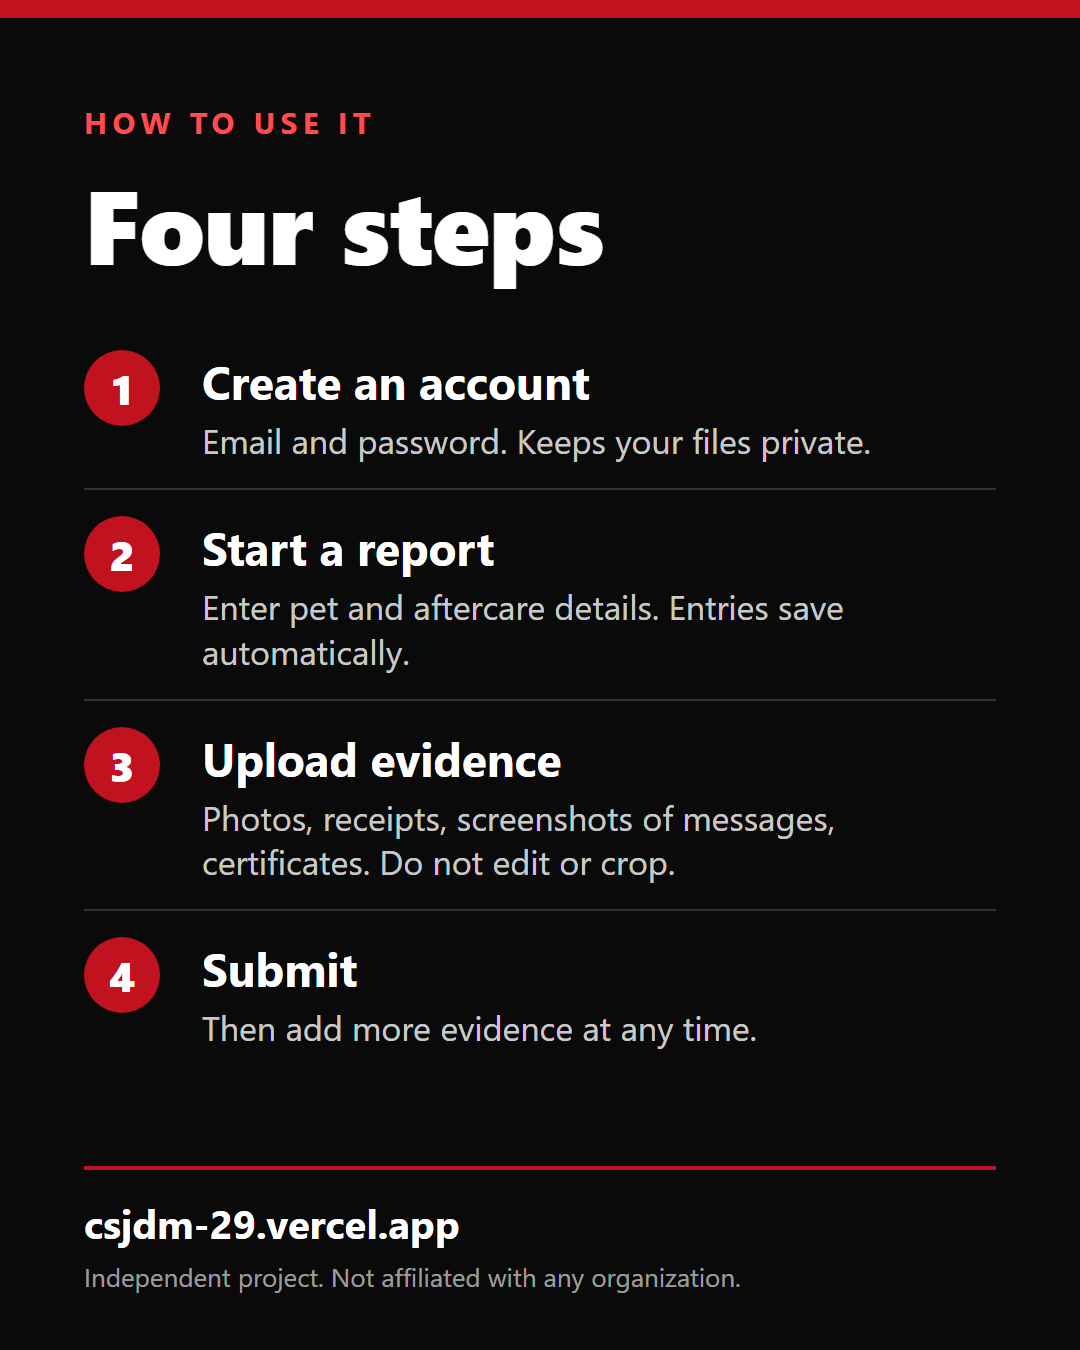
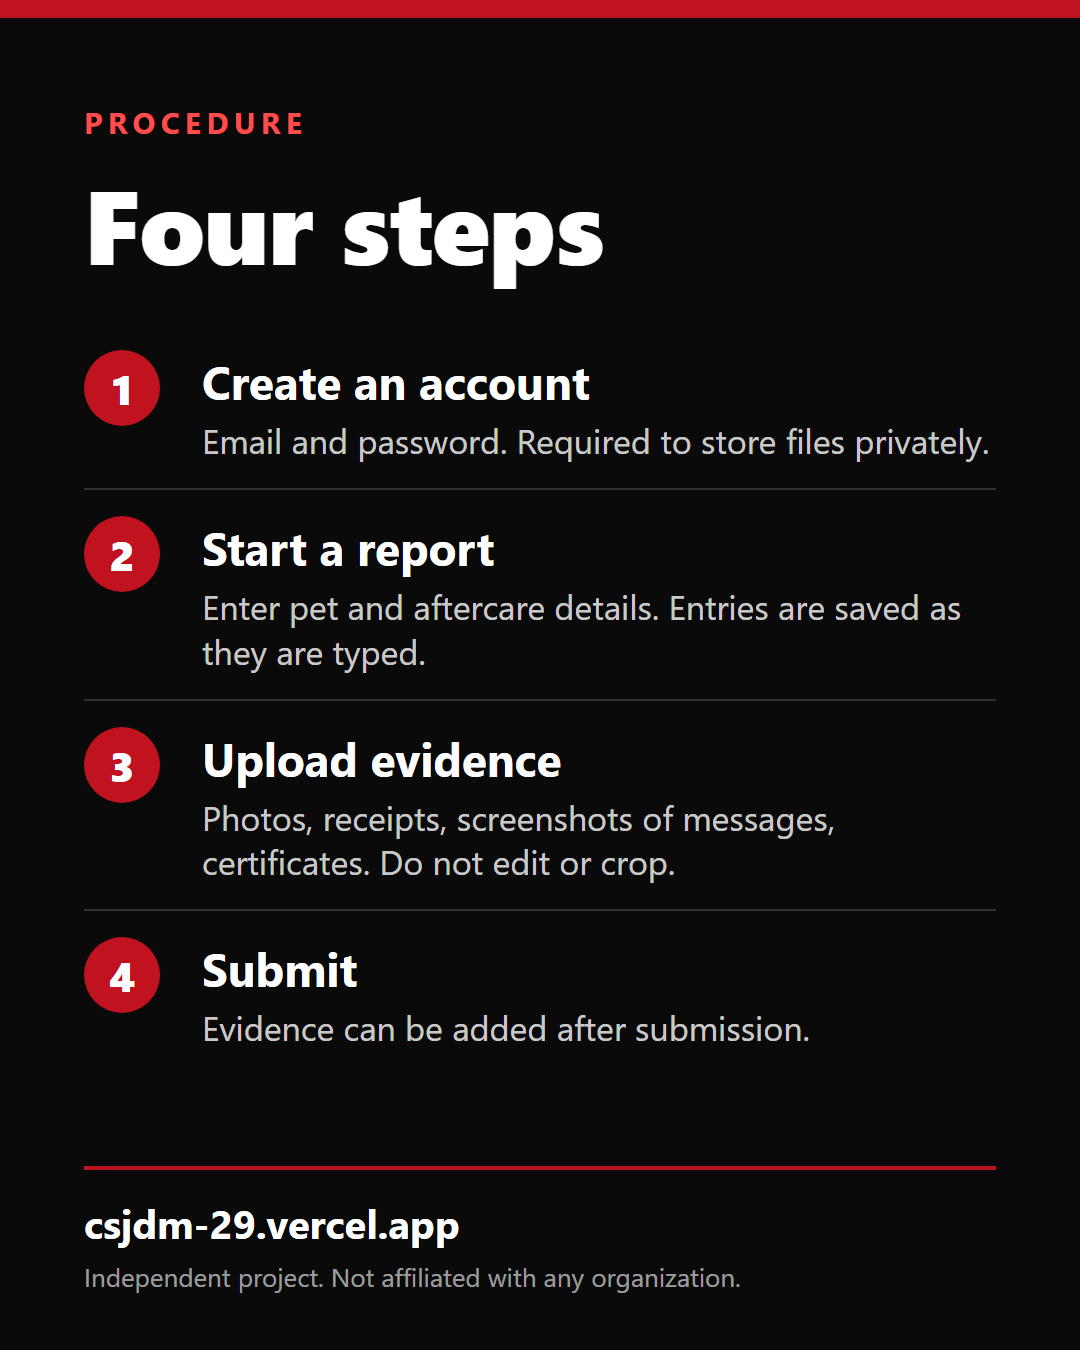
Rewrite site, images and captions in plain procedural wording

diff --git a/src/app/page.tsx b/src/app/page.tsx
@@ -13,9 +13,9 @@ export default async function Home() {
     <main>
       <section className="bg-ink-900 text-white">
         <div className="mx-auto max-w-3xl px-4 pb-12 pt-12 sm:pt-16">
-          <h1 className="text-4xl font-bold leading-tight sm:text-5xl">Evidence in one place. Print it or download it as a ZIP.</h1>
+          <h1 className="text-3xl font-bold leading-tight sm:text-4xl">Evidence database for pet owners affected by the San Jose del Monte animal remains discovery</h1>
           <p className="mt-5 max-w-xl text-lg text-white/80">
-            Online evidence database for pet owners affected by the San Jose del Monte animal remains discovery. Upload files from your phone instead of collecting them on a USB drive.
+            Owners upload evidence files and record case details. A case can be printed or exported as a ZIP of the original files. Reviewers compare reports with documented recovered animals.
           </p>
 
           <div className="mt-8 flex max-w-md flex-col gap-3">
@@ -36,22 +36,22 @@ export default async function Home() {
           <Stat label="Potential matches requiring review" value={n(stats?.matches_needing_review)} />
           <Stat label="Evidence files preserved" value={n(stats?.evidence_files)} />
         </dl>
-        <p className="mt-3 text-xs text-ink-500">Counts reflect records on this platform only. They are not findings about any person or business.</p>
+        <p className="mt-3 text-xs text-ink-500">Counts cover records on this platform only. They are not findings about any person or business.</p>
         {stats?.recovered_documented === 0 && (
           <p className="mt-4 border-l-4 border-brand-600 bg-sand-100 p-3 text-sm text-ink-900">
-            The recovered-animals registry has no records yet. Records are added by authorized reviewers from documented sources. Searching and potential matches work only after records are added.
+            The recovered-animals registry has no records. Records are added by authorized reviewers from documented sources. Search and potential matches return results only after records are added.
           </p>
         )}
       </section>
 
       <section className="mx-auto max-w-5xl px-4 pb-10">
-        <h2 className="section-title">How to use this site</h2>
+        <h2 className="section-title">Procedure for owners</h2>
         <ol className="mt-5 grid gap-4 sm:grid-cols-4">
           {[
-            ["Create an account", "An account keeps uploaded evidence private."],
-            ["Start a report", "Enter pet and aftercare details. Entries save automatically."],
-            ["Upload evidence", "Photos, receipts, messages, certificates. Originals are never changed."],
-            ["Submit", "Then add more evidence, print the package or download a ZIP when authorities ask."],
+            ["Create an account", "Required to store evidence privately."],
+            ["Start a report", "Enter pet details and aftercare details. Entries are saved as they are typed."],
+            ["Upload evidence files", "Receipts, messages, photos, certificates, records. Upload originals. Do not edit or crop."],
+            ["Submit", "Evidence can be added after submission. The case can be printed or downloaded as a ZIP."],
           ].map(([t, d], i) => (
             <li key={t} className="card">
               <p className="text-sm font-bold text-brand-700">Step {i + 1}</p>
@@ -60,41 +60,43 @@ export default async function Home() {
             </li>
           ))}
         </ol>
-        <p className="mt-4"><Link href="/guide" className="btn-secondary">Open the full guide</Link></p>
+        <p className="mt-4"><Link href="/guide" className="btn-secondary">Full instructions</Link></p>
       </section>
 
       <section className="mx-auto max-w-5xl px-4 pb-6">
-        <h2 className="section-title">Process</h2>
-        <ol className="mt-5 grid gap-4 sm:grid-cols-5">
+        <h2 className="section-title">Handling of information</h2>
+        <ul className="mt-5 grid gap-4 sm:grid-cols-2">
           {[
-            ["Preserve", "Receipts, messages and photos are stored unmodified with a SHA-256 hash."],
-            ["Organize", "Case details form a timeline and an evidence index."],
-            ["Correlate", "Once the registry has records, documented recovered animals are compared with owner-submitted details."],
-            ["Verify", "A human reviewer checks every record and every potential match."],
-            ["Export", "Print case packages or download original files as a ZIP."],
-          ].map(([t, d], i) => (
+            ["Storage", "Files are stored unmodified. A SHA-256 hash is recorded for each file."],
+            ["Case record", "Entered dates and uploaded files form a timeline and an evidence index."],
+            ["Comparison", "Owner-submitted details are compared with documented recovered animals when records exist."],
+            ["Review", "A reviewer checks every recovered-animal record and every potential match."],
+            ["Export", "A case is exported as a print-ready package or as a ZIP with a hash manifest."],
+            ["Access", "Uploaded files are visible only to the account holder and authorized reviewers. Each reviewer access is logged."],
+          ].map(([t, d]) => (
             <li key={t} className="card">
-              <p className="text-sm font-bold text-brand-700">{i + 1}. {t}</p>
+              <p className="text-sm font-bold text-brand-700">{t}</p>
               <p className="mt-1 text-sm text-ink-700">{d}</p>
             </li>
           ))}
-        </ol>
+        </ul>
       </section>
 
       <section className="mx-auto max-w-5xl px-4 py-10">
         <div className="card">
-          <h2 className="section-title">Categories of information</h2>
-          <p className="prose-plain mt-3">The platform keeps these categories separate and labels each one.</p>
+          <h2 className="section-title">Labels</h2>
+          <p className="prose-plain mt-3">Each item is labelled with its origin. The categories are not combined.</p>
           <ul className="mt-4 grid gap-2 text-sm text-ink-700 sm:grid-cols-2">
-            <li><strong>Owner claim:</strong> labelled Owner-submitted</li>
-            <li><strong>Source documentation:</strong> labelled Source-documented</li>
-            <li><strong>System extraction:</strong> labelled System-extracted, pending review</li>
-            <li><strong>Human review:</strong> labelled Reviewer-verified</li>
+            <li><strong>Owner claim:</strong> Owner-submitted</li>
+            <li><strong>Source documentation:</strong> Source-documented</li>
+            <li><strong>System extraction:</strong> System-extracted, pending review</li>
+            <li><strong>Human review:</strong> Reviewer-verified</li>
             <li className="sm:col-span-2"><strong>Authority or forensic confirmation:</strong> not provided by this platform</li>
           </ul>
           <p className="mt-4 text-sm"><Link className="underline" href="/about">Method and privacy</Link></p>
         </div>
       </section>
+
       <section className="mx-auto max-w-5xl px-4 pb-6">
         <DeveloperNote />
       </section>

diff --git a/src/app/report/page.tsx b/src/app/report/page.tsx
@@ -15,7 +15,7 @@ export default async function Report({ searchParams }: { searchParams: Promise<{
   return (
     <PageShell narrow>
       <h1 className="section-title">Report or register a pet</h1>
-      <p className="prose-plain mt-3">Record pet details, aftercare details and evidence. Entries save automatically and can be completed later. <Link className="underline" href="/guide">Step-by-step guide</Link></p>
+      <p className="prose-plain mt-3">Record pet details, aftercare details and evidence. Entries are saved as they are typed and can be completed later. <Link className="underline" href="/guide">Step-by-step guide</Link></p>
 
       {sp.error === "draft" && <p role="alert" className="mt-4 border-l-4 border-soft-800 bg-soft-50 p-3 text-sm text-soft-800">Three unfinished reports already exist on this account. Finish or submit one before starting another.</p>}
       {sp.error === "limit" && <p role="alert" className="mt-4 border-l-4 border-soft-800 bg-soft-50 p-3 text-sm text-soft-800">This account has reached the limit of 10 reports. Contact a reviewer if more are needed.</p>}
@@ -25,8 +25,8 @@ export default async function Report({ searchParams }: { searchParams: Promise<{
           <>
             <form action={current} className="card">
               <h2 className="text-xl font-bold">Current case</h2>
-              <p className="mt-1 text-sm text-ink-700">Pet details, aftercare information and evidence. Documented recovered animals with characteristics in common are listed after submission.</p>
-              <button className="btn-primary mt-4 w-full">Start report</button>
+              <p className="mt-1 text-sm text-ink-700">Pet details, aftercare information and evidence. Records with characteristics in common are listed after submission.</p>
+              <button className="btn-primary mt-4 w-full">Start a report</button>
             </form>
             <form action={historical} className="card">
               <h2 className="text-xl font-bold">Previous incident</h2>
@@ -38,7 +38,7 @@ export default async function Report({ searchParams }: { searchParams: Promise<{
         ) : (
           <div className="card">
             <h2 className="text-xl font-bold">Account required</h2>
-            <p className="mt-1 text-sm text-ink-700">An account keeps evidence private. Only the account holder and authorized reviewers can access uploaded files.</p>
+            <p className="mt-1 text-sm text-ink-700">An account is required to store evidence privately. Uploaded files are visible only to the account holder and authorized reviewers.</p>
             <div className="mt-4 flex flex-col gap-2">
               <Link href="/signup?next=/report" className="btn-primary">Create account</Link>
               <Link href="/login?next=/report" className="btn-secondary">Sign in</Link>

diff --git a/social/01-cover.html b/social/01-cover.html
@@ -26,7 +26,7 @@ ol span{font-size:34px;line-height:1.3;color:rgba(255,255,255,.8);margin-top:6px
 .note{font-size:26px;color:rgba(255,255,255,.6);margin-top:10px}
 </style></head><body>
 <div class="bar"></div>
-<div class="wrap"><div class="kicker">FREE EVIDENCE DATABASE</div><h1>Evidence in one place.</h1><p class="lead">Upload from your phone. Print it or download everything as a ZIP.</p><p class="lead dim">No USB drive needed. For pet owners affected by the San Jose del Monte animal remains discovery.</p></div>
+<div class="wrap"><div class="kicker">EVIDENCE DATABASE</div><h1>Online evidence storage</h1><p class="lead">For pet owners affected by the San Jose del Monte animal remains discovery.</p><p class="lead dim">Evidence files are uploaded from a phone. A case can be printed or exported as a ZIP. Replaces collecting evidence on USB drives.</p></div>
 <div class="qr"><svg xmlns="http://www.w3.org/2000/svg" viewBox="0 0 31 31" shape-rendering="crispEdges"><path fill="#ffffff" d="M0 0h31v31H0z"/><path stroke="#0a0a0a" d="M1 1.5h7m2 0h1m2 0h1m2 0h6m1 0h7M1 2.5h1m5 0h1m2 0h1m2 0h1m7 0h1m1 0h1m5 0h1M1 3.5h1m1 0h3m1 0h1m1 0h2m2 0h1m1 0h1m1 0h1m1 0h1m1 0h1m1 0h1m1 0h3m1 0h1M1 4.5h1m1 0h3m1 0h1m1 0h1m3 0h1m3 0h3m3 0h1m1 0h3m1 0h1M1 5.5h1m1 0h3m1 0h1m1 0h3m1 0h4m1 0h4m1 0h1m1 0h3m1 0h1M1 6.5h1m5 0h1m1 0h2m3 0h5m2 0h1m1 0h1m5 0h1M1 7.5h7m1 0h1m1 0h1m1 0h1m1 0h1m1 0h1m1 0h1m1 0h1m1 0h7M9 8.5h1m4 0h1m1 0h1m2 0h2M1 9.5h1m1 0h5m2 0h2m1 0h1m1 0h2m1 0h1m4 0h5M2 10.5h2m1 0h1m2 0h1m1 0h1m1 0h2m2 0h2m1 0h7m3 0h1M1 11.5h2m2 0h3m1 0h1m1 0h2m6 0h1m3 0h1m1 0h1M3 12.5h3m2 0h1m1 0h1m2 0h1m1 0h1m1 0h1m2 0h1m3 0h3m1 0h1M3 13.5h5m2 0h4m3 0h2m2 0h2m3 0h2M2 14.5h1m2 0h1m4 0h1m2 0h4m3 0h6m3 0h1M1 15.5h3m2 0h2m2 0h3m1 0h4m1 0h1m1 0h1m1 0h1m2 0h2M1 16.5h1m1 0h1m5 0h1m2 0h3m1 0h1m2 0h1m1 0h1m6 0h1M2 17.5h2m1 0h1m1 0h1m1 0h1m1 0h2m2 0h2m1 0h1m3 0h1m3 0h2M1 18.5h2m1 0h3m4 0h3m2 0h2m2 0h2m1 0h3m1 0h1m1 0h1M1 19.5h1m2 0h4m1 0h1m3 0h1m5 0h1m2 0h1m1 0h1m2 0h1M1 20.5h1m3 0h2m1 0h2m1 0h1m3 0h1m1 0h1m1 0h5m1 0h1m2 0h1M1 21.5h1m1 0h2m2 0h2m1 0h1m6 0h1m1 0h1m1 0h5m1 0h3M9 22.5h8m1 0h4m3 0h5M1 23.5h7m2 0h3m1 0h5m1 0h2m1 0h1m1 0h3M1 24.5h1m5 0h1m1 0h2m3 0h1m1 0h1m1 0h4m3 0h1m3 0h1M1 25.5h1m1 0h3m1 0h1m1 0h3m3 0h2m4 0h5m1 0h3M1 26.5h1m1 0h3m1 0h1m1 0h1m2 0h2m2 0h2m1 0h1m1 0h2m1 0h1m1 0h2M1 27.5h1m1 0h3m1 0h1m1 0h1m1 0h2m1 0h2m3 0h3m1 0h6M1 28.5h1m5 0h1m3 0h2m4 0h1m3 0h4m1 0h1m1 0h1M1 29.5h7m1 0h1m1 0h3m3 0h1m1 0h1m5 0h1m1 0h1"/></svg>
 </div>
 <div class="foot"><div class="url">csjdm-29.vercel.app</div><div class="note">Independent project. Not affiliated with any organization.</div></div>

diff --git a/src/app/guide/page.tsx b/src/app/guide/page.tsx
@@ -30,7 +30,7 @@ export default function Guide() {
   return (
     <PageShell narrow>
       <h1 className="section-title">How to use this site</h1>
-      <p className="prose-plain mt-3">Steps for pet owners and for anyone with information. Works on a phone. Entries save automatically.</p>
+      <p className="prose-plain mt-3">Instructions for pet owners and for people submitting information. Entries are saved as they are typed.</p>
 
       <nav aria-label="Guide sections" className="card mt-5">
         <p className="text-xs font-bold uppercase tracking-wide text-ink-500">Contents</p>
@@ -56,13 +56,13 @@ export default function Guide() {
 
         <ol className="mt-6 space-y-5">
           <Step n={1} title="Create an account">
-            <p>Select <strong>Report a pet</strong>, then <strong>Create account</strong>. Use an email address you can access. Write the password down. Only the account holder and authorized reviewers can see uploaded files.</p>
+            <p>Select <strong>Report a pet</strong>, then <strong>Create account</strong>. Use an email address you can access. Only the account holder and authorized reviewers can see uploaded files.</p>
           </Step>
           <Step n={2} title="Start the report">
             <p>Select <strong>Start report</strong>. A draft is created and saved after every change. The top bar shows <em>All changes saved</em>. If the connection drops, entries are kept on the device and sent when it returns.</p>
           </Step>
           <Step n={3} title="Pet details">
-            <p>Enter what you know. Only the pet name and species are required to submit. Describe markings such as scars, a missing tooth, a collar, surgery, or tail and ear features. Enter the weight and the date it was recorded if known.</p>
+            <p>Enter the details available. Only the pet name and species are required to submit. Describe markings such as scars, a missing tooth, a collar, surgery, or tail and ear features. Enter the weight and the date it was recorded if known.</p>
             <p>Upload clear photos of the pet: face, full body, and any markings. Use <strong>Take a photo</strong> or <strong>Choose from gallery or files</strong>.</p>
           </Step>
           <Step n={4} title="Aftercare details">

diff --git a/social/07-registry-help.html b/social/07-registry-help.html
@@ -26,7 +26,7 @@ ol span{font-size:34px;line-height:1.3;color:rgba(255,255,255,.8);margin-top:6px
 .note{font-size:26px;color:rgba(255,255,255,.6);margin-top:10px}
 </style></head><body>
 <div class="bar"></div>
-<div class="wrap"><div class="kicker">HELP NEEDED</div><h1>Registry records</h1><p class="lead">The recovered-animals registry has no records yet.</p><ul><li>Records are entered by authorized reviewers from documented sources</li><li>Entries can be text only: label name, weight, colors, markings, source</li><li>Photos are optional and stay hidden behind a reveal button</li><li>Organizations or volunteers with authorized access to source documentation: message this page to be set up as reviewers</li></ul></div>
+<div class="wrap"><div class="kicker">REQUEST</div><h1>Registry records</h1><p class="lead">The recovered-animals registry has no records yet.</p><ul><li>Records are entered by authorized reviewers from documented sources</li><li>Entries can be text only: label name, weight, colors, markings, source</li><li>Photos are optional and stay hidden behind a reveal button</li><li>Organizations or volunteers with authorized access to source documentation: message this page to be set up as reviewers</li></ul></div>
 
 <div class="foot"><div class="url">csjdm-29.vercel.app</div><div class="note">Independent project. Not affiliated with any organization.</div></div>
 </body></html>

diff --git a/social/02-how-to-use.html b/social/02-how-to-use.html
@@ -26,7 +26,7 @@ ol span{font-size:34px;line-height:1.3;color:rgba(255,255,255,.8);margin-top:6px
 .note{font-size:26px;color:rgba(255,255,255,.6);margin-top:10px}
 </style></head><body>
 <div class="bar"></div>
-<div class="wrap"><div class="kicker">HOW TO USE IT</div><h1>Four steps</h1><ol><li><b>Create an account</b><span>Email and password. Keeps your files private.</span></li><li><b>Start a report</b><span>Enter pet and aftercare details. Entries save automatically.</span></li><li><b>Upload evidence</b><span>Photos, receipts, screenshots of messages, certificates. Do not edit or crop.</span></li><li><b>Submit</b><span>Then add more evidence at any time.</span></li></ol></div>
+<div class="wrap"><div class="kicker">PROCEDURE</div><h1>Four steps</h1><ol><li><b>Create an account</b><span>Email and password. Required to store files privately.</span></li><li><b>Start a report</b><span>Enter pet and aftercare details. Entries are saved as they are typed.</span></li><li><b>Upload evidence</b><span>Photos, receipts, screenshots of messages, certificates. Do not edit or crop.</span></li><li><b>Submit</b><span>Evidence can be added after submission.</span></li></ol></div>
 
 <div class="foot"><div class="url">csjdm-29.vercel.app</div><div class="note">Independent project. Not affiliated with any organization.</div></div>
 </body></html>

diff --git a/social/03-what-you-can-do.html b/social/03-what-you-can-do.html
@@ -26,7 +26,7 @@ ol span{font-size:34px;line-height:1.3;color:rgba(255,255,255,.8);margin-top:6px
 .note{font-size:26px;color:rgba(255,255,255,.6);margin-top:10px}
 </style></head><body>
 <div class="bar"></div>
-<div class="wrap"><div class="kicker">WHAT YOU CAN DO</div><h1>From your phone</h1><ul><li>Upload receipts, messages, photos, certificates and veterinary records</li><li>Keep everything in one private place with a timeline and evidence index</li><li>Print your case package or download all files as a ZIP when authorities ask</li><li>Report an earlier incident</li><li>Submit information anonymously, no account needed</li></ul></div>
+<div class="wrap"><div class="kicker">FUNCTIONS</div><h1>What the site does</h1><ul><li>Stores receipts, messages, photos, certificates and veterinary records</li><li>Builds a timeline and an evidence index for each case</li><li>Exports a case as a print-ready package or a ZIP of the original files</li><li>Accepts reports of earlier incidents</li><li>Accepts information anonymously, no account needed</li></ul></div>
 
 <div class="foot"><div class="url">csjdm-29.vercel.app</div><div class="note">Independent project. Not affiliated with any organization.</div></div>
 </body></html>

diff --git a/social/04-protected.html b/social/04-protected.html
@@ -26,7 +26,7 @@ ol span{font-size:34px;line-height:1.3;color:rgba(255,255,255,.8);margin-top:6px
 .note{font-size:26px;color:rgba(255,255,255,.6);margin-top:10px}
 </style></head><body>
 <div class="bar"></div>
-<div class="wrap"><div class="kicker">YOUR FILES</div><h1>How they are protected</h1><ul><li>Private by default. Only you and authorized reviewers can see them</li><li>Originals are never changed</li><li>Each file gets a SHA-256 hash so any change can be detected</li><li>Contact details are never published</li><li>Limits: 50 MB per file, 300 MB per account</li></ul></div>
+<div class="wrap"><div class="kicker">FILE HANDLING</div><h1>Storage and access</h1><ul><li>Private by default. Visible only to the uploader and authorized reviewers</li><li>Originals are never changed</li><li>A SHA-256 hash is recorded for each file so a change can be detected</li><li>Contact details are never published</li><li>Limits: 50 MB per file, 300 MB per account</li></ul></div>
 
 <div class="foot"><div class="url">csjdm-29.vercel.app</div><div class="note">Independent project. Not affiliated with any organization.</div></div>
 </body></html>

diff --git a/social/06-handover.html b/social/06-handover.html
@@ -26,7 +26,7 @@ ol span{font-size:34px;line-height:1.3;color:rgba(255,255,255,.8);margin-top:6px
 .note{font-size:26px;color:rgba(255,255,255,.6);margin-top:10px}
 </style></head><body>
 <div class="bar"></div>
-<div class="wrap"><div class="kicker">ADMINISTRATION HANDOVER</div><h1>Requesting help</h1><p class="lead">This platform was built independently and is not run by any organization.</p>
+<div class="wrap"><div class="kicker">ADMINISTRATION</div><h1>Handover request</h1><p class="lead">This platform was built independently and is not run by any organization.</p>
       <p class="lead dim">Requesting these organizations to take over administration:</p>
       <ul class="orgs"><li>Luna and Furry Siblings</li><li>Animal Kingdom Foundation</li><li>Philippine Animal Welfare Society (PAWS)</li></ul>
       <p class="small">Representatives: message this page or comment on this post. Access is given only after confirming through each organization's official channel.</p></div>

diff --git a/src/components/case-wizard.tsx b/src/components/case-wizard.tsx
@@ -249,10 +249,10 @@ export function CaseWizard({
               {date("death_date", "Date of death")}
               {date("surrendered_on", "Date surrendered for aftercare")}
             </div>
-            {txt("location", "Location", { hint: "Town or barangay where your pet was handed over." })}
+            {txt("location", "Location", { hint: "Town or barangay where the pet was handed over." })}
             {txt("vet_clinic", "Veterinary clinic (if any)")}
             <section className="card">
-              <h2 className="font-serif text-lg font-semibold">Photos of your pet while alive</h2>
+              <h2 className="font-serif text-lg font-semibold">Photos of the pet while alive</h2>
               <p className="hint mb-3">Upload clear photos: face, full body, and any markings.</p>
               {slots.petPhotos}
             </section>

diff --git a/src/app/layout.tsx b/src/app/layout.tsx
@@ -5,7 +5,7 @@ import { SiteFooter, SiteHeader } from "@/components/site";
 export const metadata: Metadata = {
   title: { default: "Justice for CSJDM29: evidence and pet identification registry", template: "%s · Justice for CSJDM29" },
   description:
-    "Online evidence database for pet owners affected by the San Jose del Monte animal remains discovery. Upload evidence, then print it or download it as a ZIP. Documents information and potential matches. Does not determine legal responsibility.",
+    "Evidence database for pet owners affected by the San Jose del Monte animal remains discovery. Stores uploaded evidence and case details; exports a printable package or a ZIP. Lists potential matches. Does not determine legal responsibility.",
 };
 
 export const viewport: Viewport = { width: "device-width", initialScale: 1 };

diff --git a/src/app/about/page.tsx b/src/app/about/page.tsx
@@ -10,7 +10,7 @@ export default function About() {
       <h1 className="section-title">Method and privacy</h1>
       <div className="prose-plain mt-4 space-y-4">
         <p>
-          This is an independent community platform. It stores owner evidence, keeps a registry of documented recovered animals, and lists characteristics in common between the two. People review every record and every potential match.
+          This is an independent community platform. It stores owner evidence, holds a registry of documented recovered animals, and lists characteristics in common between the two. People review every record and every potential match.
         </p>
         <p className="border-l-4 border-brand-600 bg-sand-100 p-4 text-ink-900">{DISCLAIMER_FULL}</p>
 
